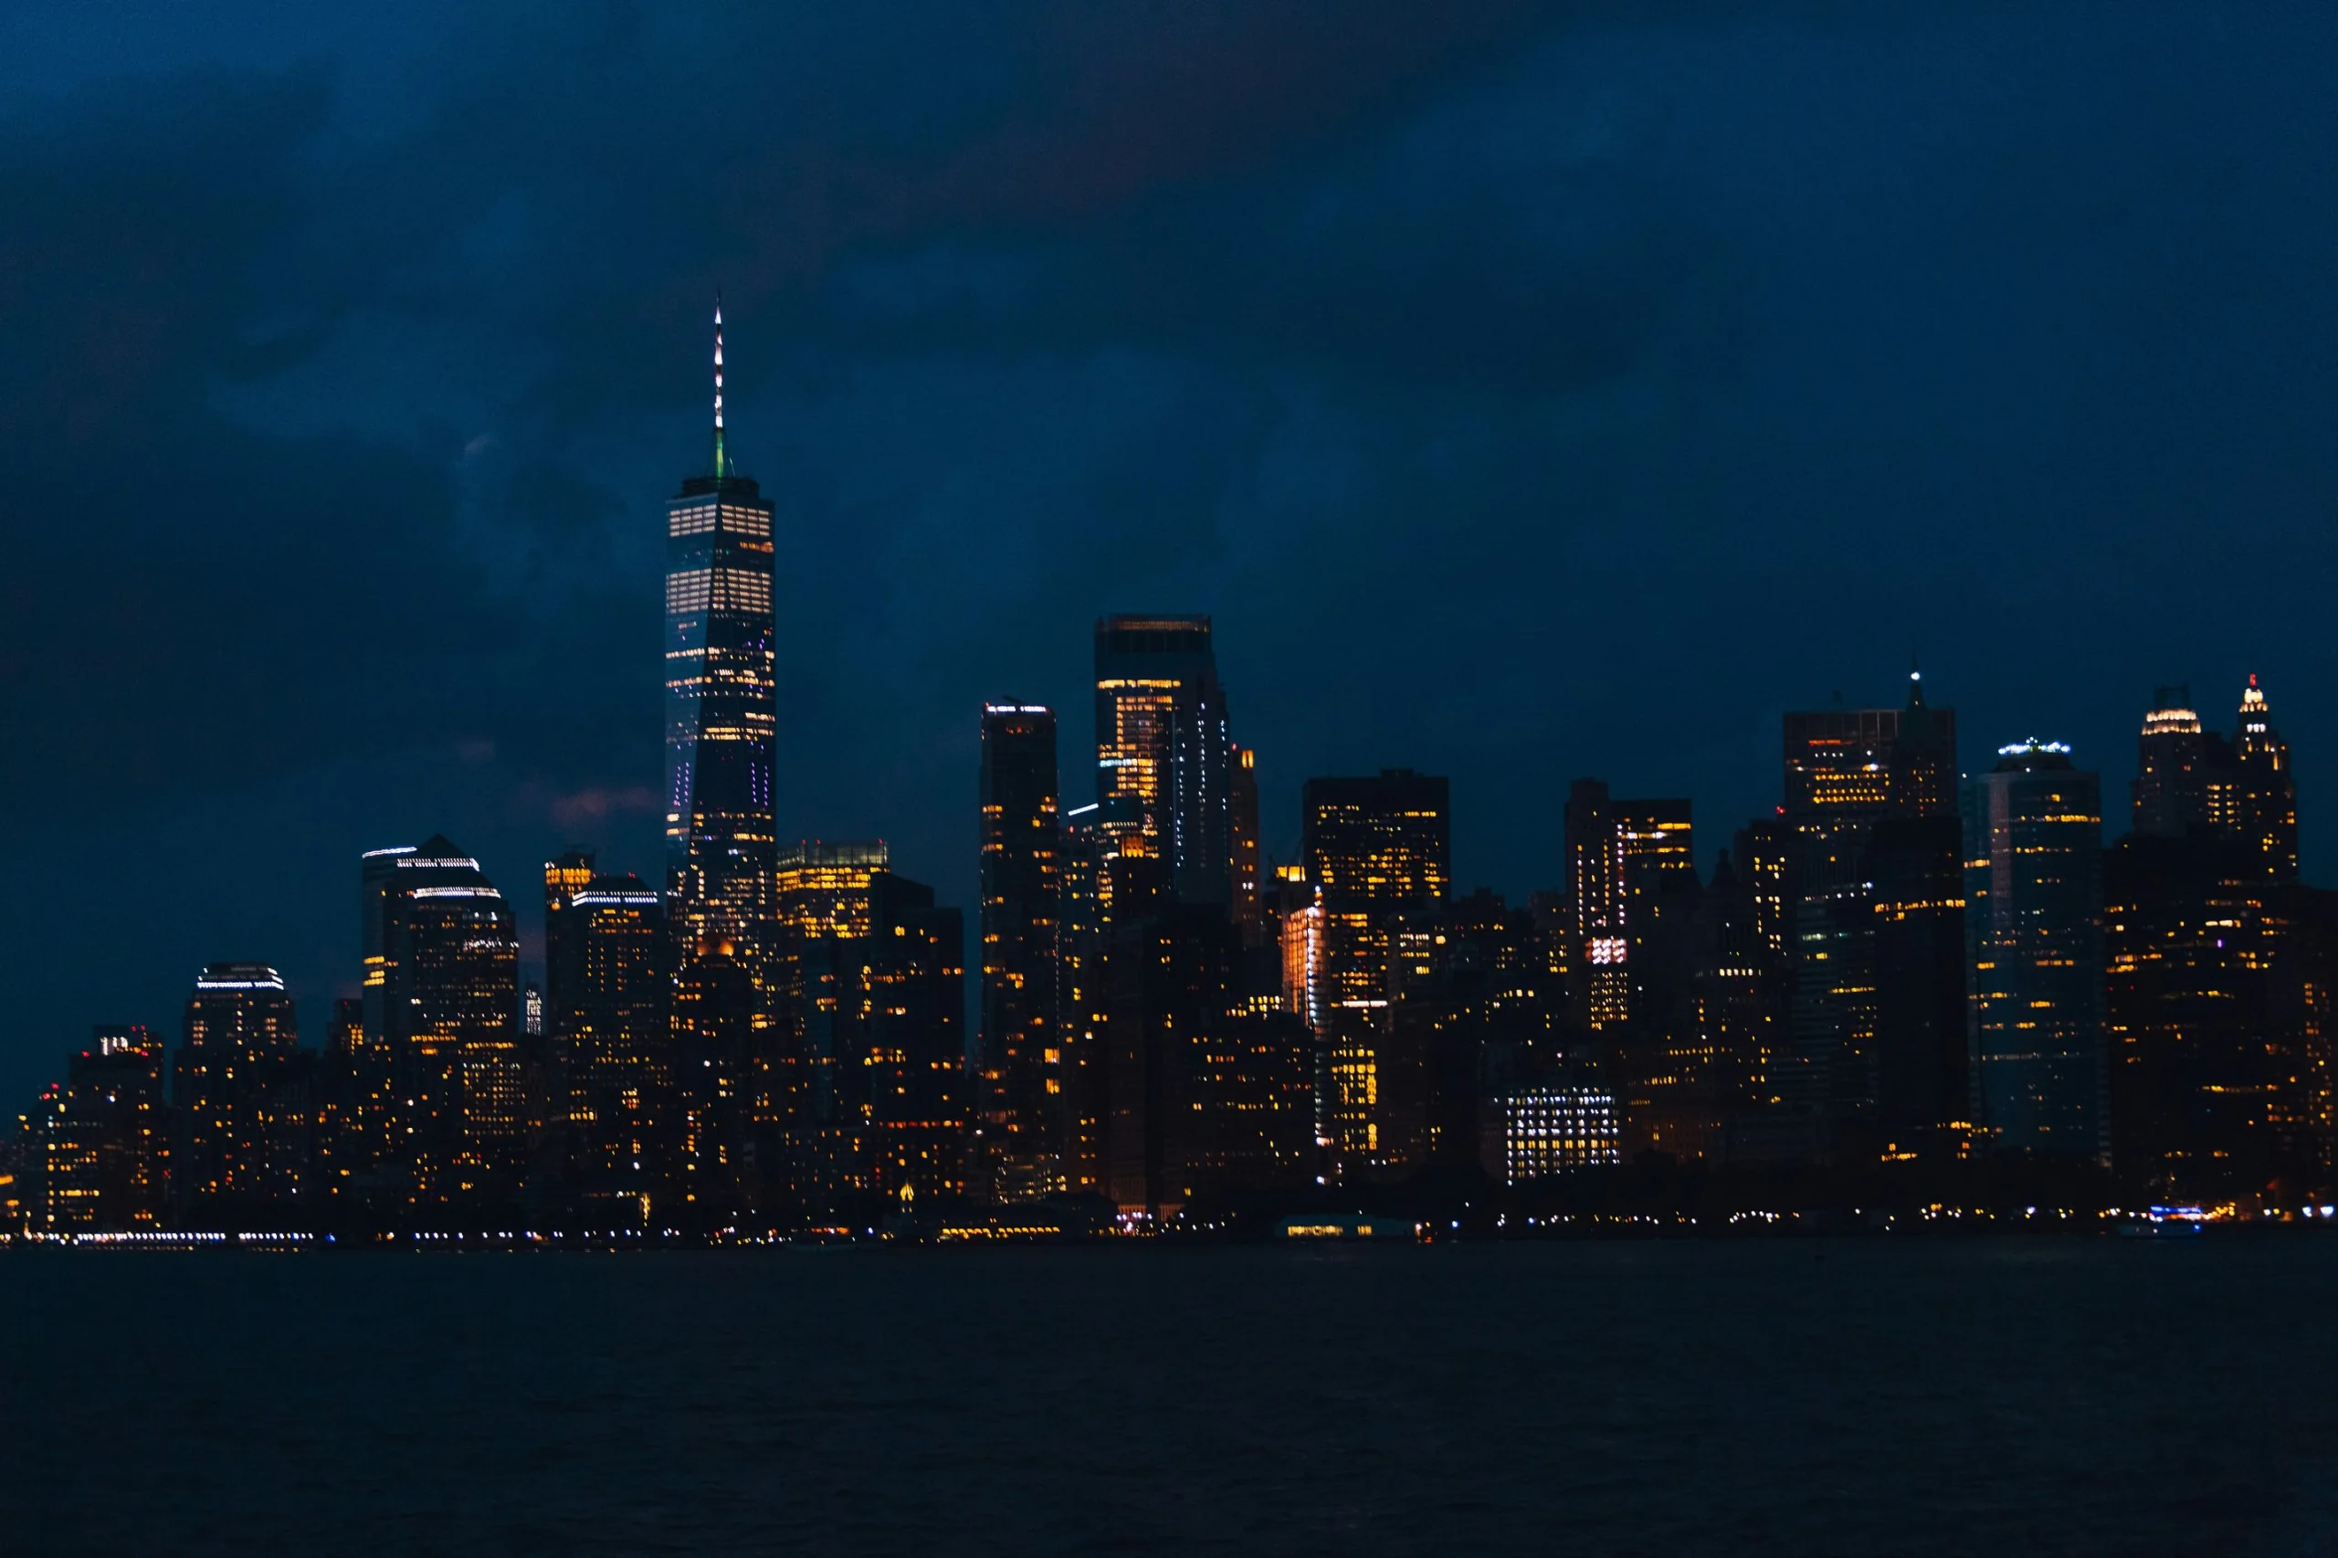
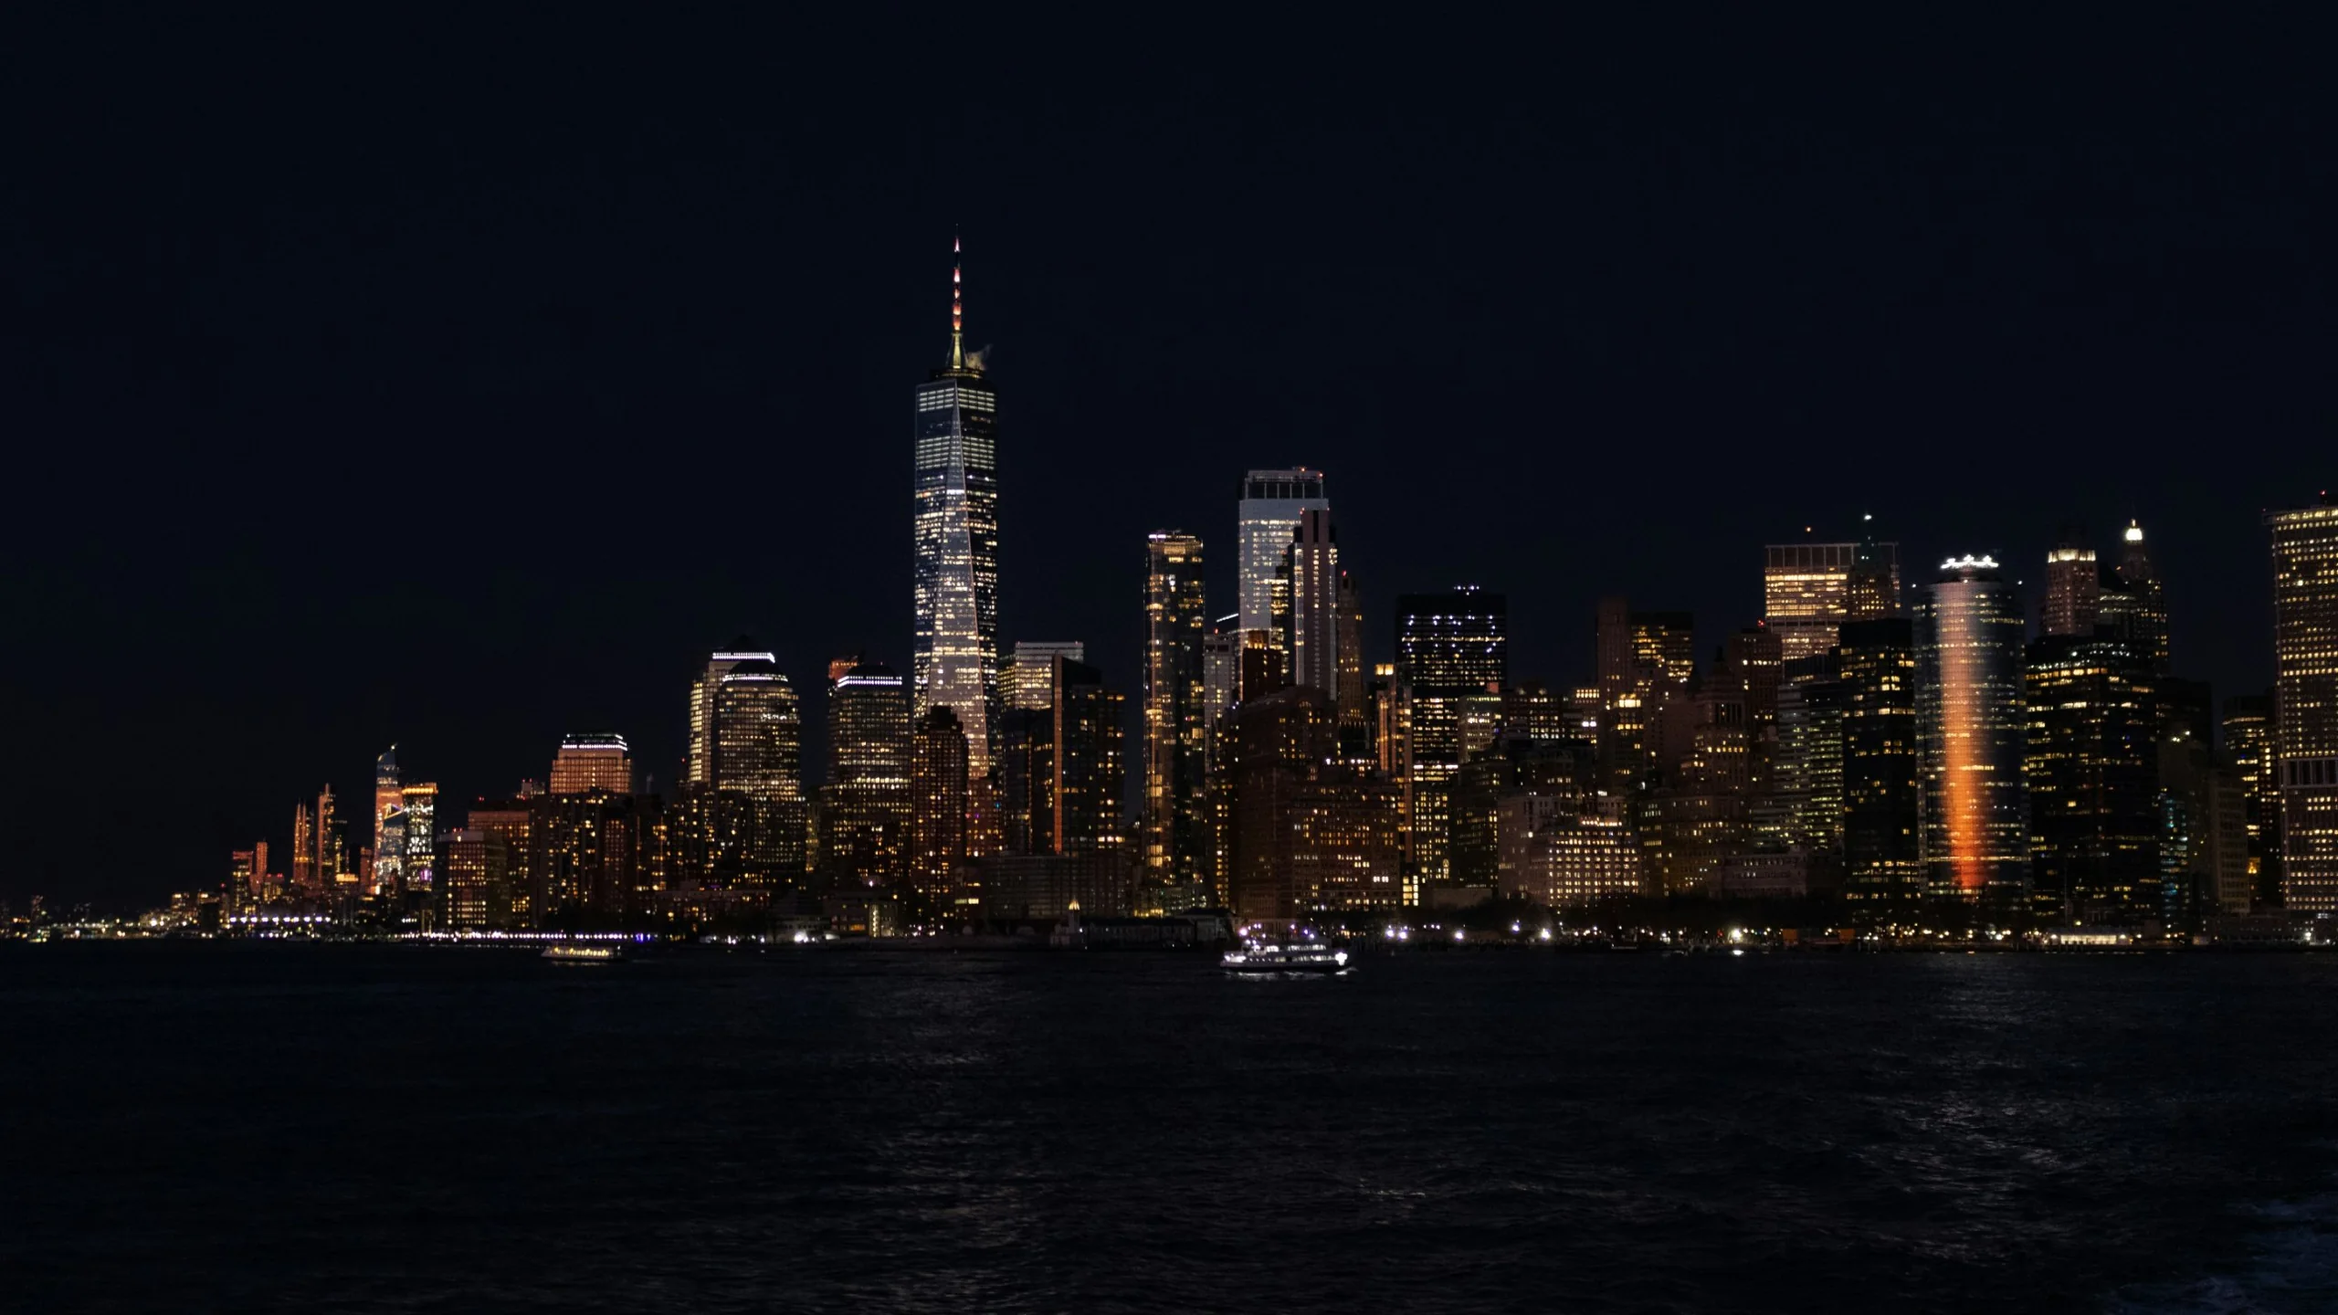
Alumni: swap hero to night skyline photo
Claude-Session: https://claude.ai/code/session_01VY2jADGSHYV1E453ZQUJN7

diff --git a/alumni.html b/alumni.html
@@ -11,15 +11,15 @@
     <link
         href="https://fonts.googleapis.com/css2?family=Inter:wght@300;400;500;600&family=Figtree:wght@300..700&display=swap"
         rel="stylesheet">
-    <link rel="preload" as="image" href="alumni_hero.webp?v=3" media="(min-width: 769px)" fetchpriority="high">
-    <link rel="preload" as="image" href="alumni_hero_m.webp?v=3" media="(max-width: 768px)" fetchpriority="high">
+    <link rel="preload" as="image" href="alumni_hero.webp?v=4" media="(min-width: 769px)" fetchpriority="high">
+    <link rel="preload" as="image" href="alumni_hero_m.webp?v=4" media="(max-width: 768px)" fetchpriority="high">
     <link rel="stylesheet" href="styles.css?v=1794199509">
     <style>
         [hidden] { display: none !important; }
         body .rs-hero .hero-title { color: #fff !important; margin-bottom: 1.25rem; text-align: left; }
         body .rs-hero .hero-subtitle { color: rgba(255, 255, 255, 0.85) !important; }
-        .rs-hero { background-image: url('alumni_hero.webp?v=3'); background-position: center 50%; }
-        @media (max-width: 768px) { .rs-hero { background-image: url('alumni_hero_m.webp?v=3'); background-position: center 50%; } }
+        .rs-hero { background-image: url('alumni_hero.webp?v=4'); background-position: center 50%; }
+        @media (max-width: 768px) { .rs-hero { background-image: url('alumni_hero_m.webp?v=4'); background-position: center 50%; } }
         .rs-hero::after { content: ''; position: absolute; inset: 0; z-index: 1; background: linear-gradient(to right, rgba(2, 10, 24, 0.55) 0%, rgba(2, 10, 24, 0.25) 45%, transparent 70%); pointer-events: none; }
         body .page-wrapper.pl-main { padding-top: 0; }
         .pl-title { font-family: var(--font-heading); text-align: center; color: #111827; margin: 0; }
